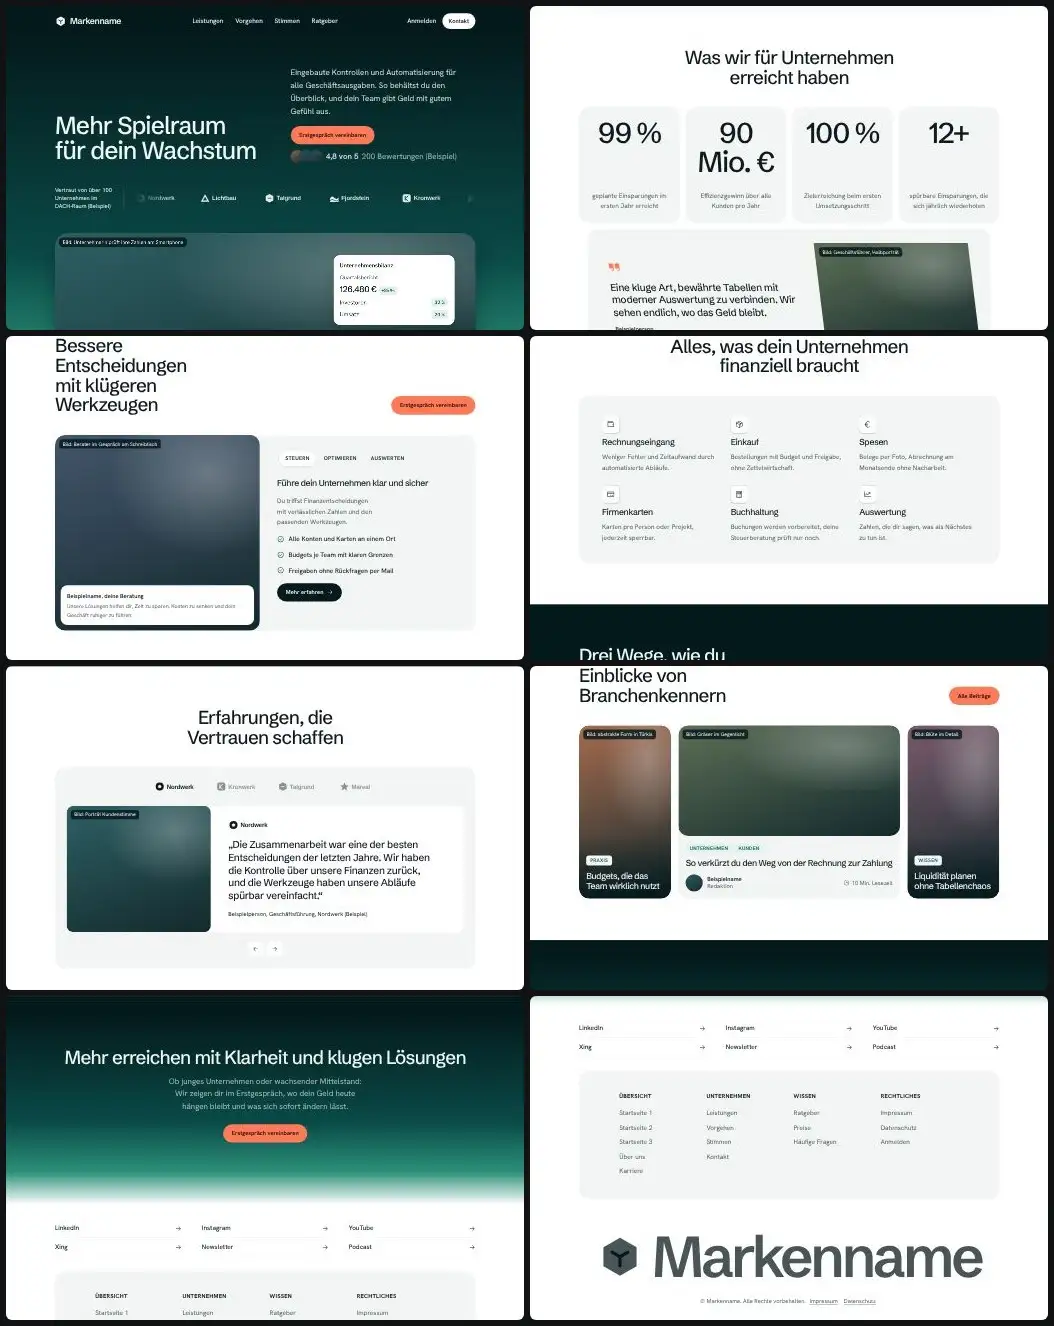
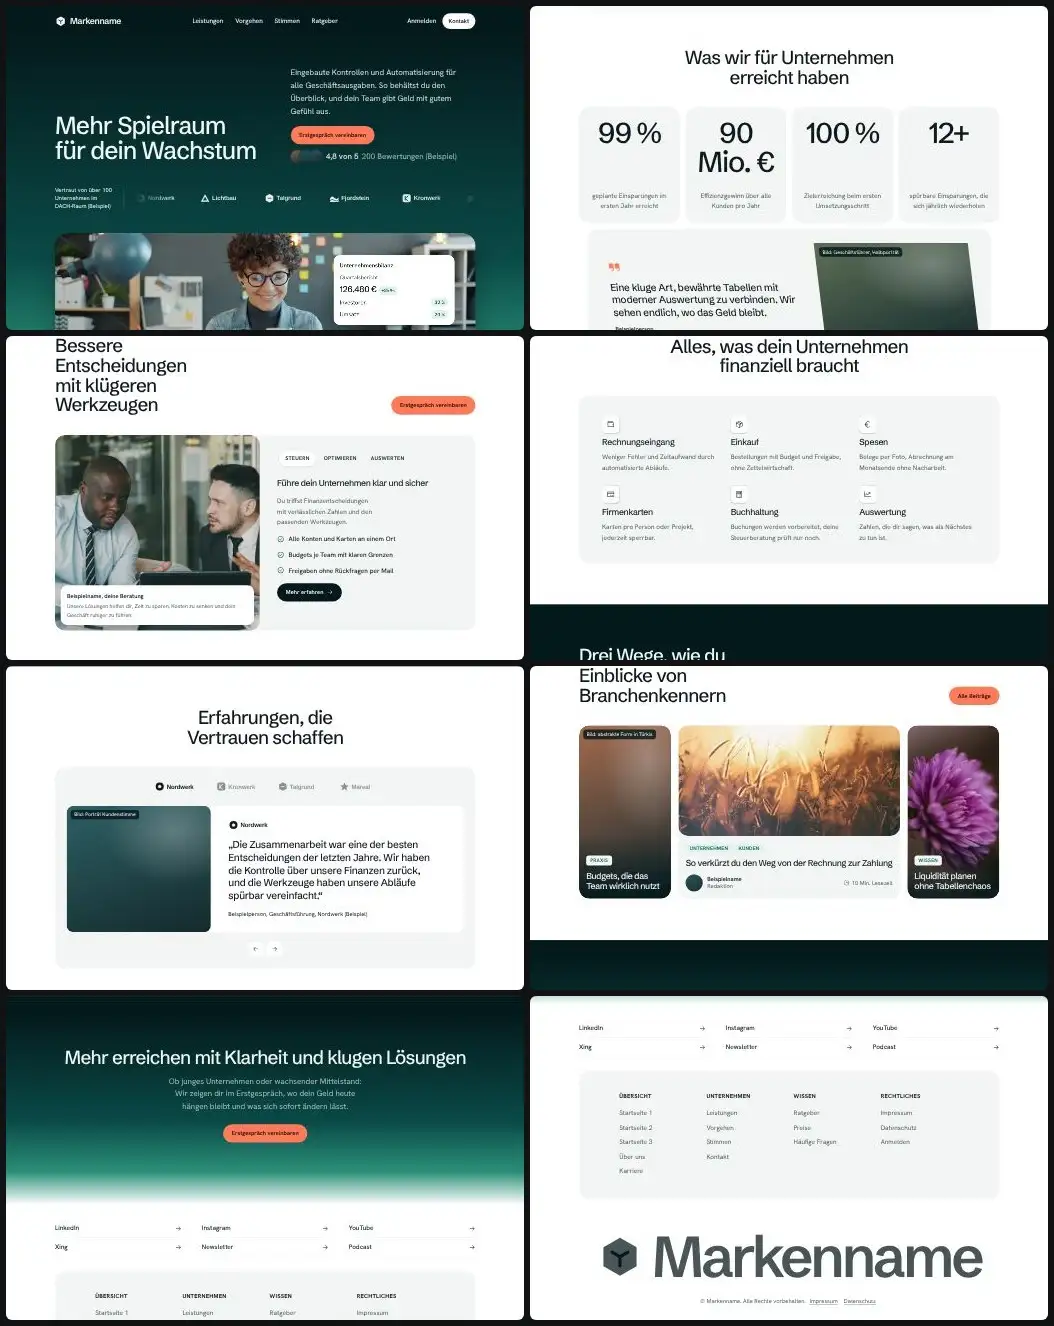
Bibliothek t54: Beispielfotos (Unsplash) eingebaut, Vorschaubilder neu erzeugt
Claude-Session: https://claude.ai/code/session_01DoGuL1bwF3ewggMgZ4Cpvd

Changed region(s): [[0.6376, 0.5256, 0.9715, 0.6802], [0.0304, 0.3092, 0.2732, 0.4947], [0.0304, 0.1546, 0.4554, 0.2474]]

diff --git a/skills/webdesign-conversion/assets/vorlagen/bibliothek/t54/index.html b/skills/webdesign-conversion/assets/vorlagen/bibliothek/t54/index.html
@@ -95,7 +95,7 @@
       </div>
       <div class="kipp" data-kipp>
         <div class="kipp__huelle">
-          <div class="bild bild--a kipp__bild" data-platzhalter="Bild: Unternehmerin prüft ihre Zahlen am Smartphone" role="img" aria-label="Platzhalter für ein Bild: Unternehmerin prüft ihre Zahlen am Smartphone"></div>
+          <div class="bild bild--a kipp__bild"><img src="bilder/buero-frau-smartphone.webp" width="1000" height="563" alt="Lächelnde Frau mit Smartphone an ihrem Schreibtisch im Büro" loading="lazy" decoding="async"></div>
           <div class="schwebe schwebe--1" data-parallax="0.06" data-beispiel>
             <div class="mini">
               <div class="mini__zeile"><span class="mini__titel">Unternehmensbilanz</span></div>
@@ -149,7 +149,7 @@
         <a class="knopf" href="#kontakt" data-zeig>Erstgespräch vereinbaren</a>
       </div>
       <div class="tabbox" data-schieber data-zeig>
-        <div class="bild bild--c tabbox__bild" data-platzhalter="Bild: Berater im Gespräch am Schreibtisch" role="img" aria-label="Platzhalter für ein Bild: Berater im Gespräch am Schreibtisch">
+        <div class="bild bild--c tabbox__bild"><img src="bilder/buero-gespraech-tablet.webp" width="1000" height="563" alt="Zwei Männer im Gespräch über Tablet und Laptop am Schreibtisch" loading="lazy" decoding="async">
           <div class="mini" data-beispiel><p class="mini__titel">Beispielname, deine Beratung</p><p class="mini__leise">Unsere Lösungen helfen dir, Zeit zu sparen, Kosten zu senken und dein Geschäft ruhiger zu führen.</p></div>
         </div>
         <div class="tabbox__inhalt">
@@ -204,7 +204,7 @@
         <a class="knopf" href="#kontakt" data-zeig>Erstgespräch vereinbaren</a>
       </div>
       <div class="wege">
-        <div class="bild bild--d wege__gross" data-platzhalter="Bild: Frau arbeitet am Laptop am Fenster" role="img" aria-label="Platzhalter für ein Bild: Frau arbeitet am Laptop am Fenster" data-zeig>
+        <div class="bild bild--d wege__gross" data-zeig><img src="bilder/buero-frau-laptop-fenster.webp" width="1000" height="667" alt="Frau arbeitet am Laptop an einem Tisch am Fenster" loading="lazy" decoding="async">
           <div class="mini" data-beispiel>
             <div class="person"><span class="avatar avatar--gross avatar--3" aria-hidden="true"></span><span><strong>Beispielname</strong><span class="leise">Neukundengewinnung</span></span></div>
             <div class="mini__zeile"><span>Abschlussquote</span><span>70 %</span></div><span class="fortschritt" style="--w:70%"><i></i></span>
@@ -223,7 +223,7 @@
           <article class="dkarte" data-zeig>
             <div class="dkarte__text"><h3>Sofortmeldungen</h3><p>Du bleibst auf dem Laufenden, ohne Postfächer zu durchsuchen.</p></div>
             <div class="dkarte__ui">
-              <div class="bild bild--e" style="aspect-ratio:16/10;border-radius:12px" data-platzhalter="Bild: zwei Personen im Gespräch" role="img" aria-label="Platzhalter für ein Bild"></div>
+              <div class="bild bild--e" style="aspect-ratio:16/10;border-radius:12px"><img src="bilder/buero-zwei-personen-gespraech.webp" width="1000" height="562" alt="Zwei Männer im Gespräch an einem hellen Tisch am Fenster" loading="lazy" decoding="async"></div>
               <div class="dzeile dzeile--an"><span><small>Beratung</small>Termin heute, 14:00 Uhr</span></div>
             </div>
           </article>
@@ -303,9 +303,9 @@
         <li class="beitrag1 beitrag1--schmal" data-zeig><article class="beitrag1"><div class="bild bild--b beitrag1__bild" data-platzhalter="Bild: abstrakte Form in Türkis" role="img" aria-label="Platzhalter für ein Bild"></div>
           <div class="beitrag1__text"><span class="beitrag__tags"><span class="etikett">Praxis</span></span><h3><a href="#ratgeber">Budgets, die das Team wirklich nutzt</a></h3></div></article></li>
         <li class="beitrag1 beitrag1--breit" data-zeig><article>
-          <div class="bild bild--d beitrag1__bild" data-platzhalter="Bild: Gräser im Gegenlicht" role="img" aria-label="Platzhalter für ein Bild"></div>
+          <div class="bild bild--d beitrag1__bild"><img src="bilder/graeser-gegenlicht.webp" width="800" height="533" alt="Gräser im warmen Gegenlicht" loading="lazy" decoding="async"></div>
           <div class="beitrag1__text"><span class="beitrag__tags"><span class="etikett">Unternehmen</span><span class="etikett">Kunden</span></span><h3><a href="#ratgeber">So verkürzt du den Weg von der Rechnung zur Zahlung</a></h3><div class="beitrag__fuss"><span class="person"><span class="avatar avatar--gross avatar--2" aria-hidden="true"></span><span><strong>Beispielname</strong><span class="leise">Redaktion</span></span></span><span class="dauer leise"><svg width="20" height="20" aria-hidden="true" focusable="false"><use href="#i-uhr"/></svg>10 Min. Lesezeit</span></div></div></article></li>
-        <li class="beitrag1 beitrag1--schmal" data-zeig><article class="beitrag1"><div class="bild bild--e beitrag1__bild" data-platzhalter="Bild: Blüte im Detail" role="img" aria-label="Platzhalter für ein Bild"></div>
+        <li class="beitrag1 beitrag1--schmal" data-zeig><article class="beitrag1"><div class="bild bild--e beitrag1__bild"><img src="bilder/bluete-lila-detail.webp" width="800" height="533" alt="Lila Blüte in der Nahaufnahme" loading="lazy" decoding="async"></div>
           <div class="beitrag1__text"><span class="beitrag__tags"><span class="etikett">Wissen</span></span><h3><a href="#ratgeber">Liquidität planen ohne Tabellenchaos</a></h3></div></article></li>
       </ul>
     </div>

diff --git a/skills/webdesign-conversion/assets/vorlagen/bibliothek/t54/v2.html b/skills/webdesign-conversion/assets/vorlagen/bibliothek/t54/v2.html
@@ -90,7 +90,7 @@
           <div class="bild bild--b bild--hoch" data-platzhalter="Bild: Frau mit Kopfhörer lacht am Laptop" role="img" aria-label="Platzhalter für ein Bild: Frau mit Kopfhörer lacht am Laptop"></div>
         </div>
         <div class="collage__spalte">
-          <div class="bild bild--a " data-platzhalter="Bild: Mann denkt nach am Arbeitsplatz" role="img" aria-label="Platzhalter für ein Bild: Mann denkt nach am Arbeitsplatz"></div>
+          <div class="bild bild--a "><img src="bilder/buero-mann-verschraenkte-arme.webp" width="1000" height="563" alt="Mann mit Brille lehnt mit verschränkten Armen an seinem Arbeitsplatz" loading="lazy" decoding="async"></div>
           <div class="mini" data-zeig><div class="mini__zeile mini__leise"><span>Alle</span><span>Geschäft</span><span>Unternehmen</span></div>
             <div class="dzeile dzeile--an"><span><small>Beispielname</small>Leitung Marketing</span></div>
             <div class="mini__zeile"><span><strong>Beispielname</strong><br><span class="mini__leise">Leitung Vertrieb</span></span></div></div>
@@ -119,7 +119,7 @@
           <ul class="haken"><li><svg width="20" height="20" aria-hidden="true" focusable="false"><use href="#i-hakenkreis"/></svg><span>Ein klares Erlösmodell aufbauen</span></li><li><svg width="20" height="20" aria-hidden="true" focusable="false"><use href="#i-hakenkreis"/></svg><span>Einnahmen auf mehrere Quellen verteilen</span></li><li><svg width="20" height="20" aria-hidden="true" focusable="false"><use href="#i-hakenkreis"/></svg><span>Automatische Zahlungserinnerungen nutzen</span></li><li><svg width="20" height="20" aria-hidden="true" focusable="false"><use href="#i-hakenkreis"/></svg><span>Ausgaben prüfen, Chancen erkennen</span></li></ul>
           <p><a class="knopf knopf--dunkel" href="#leistungen">Mehr erfahren <svg width="20" height="20" aria-hidden="true" focusable="false"><use href="#i-pfeil"/></svg></a></p>
         </div>
-        <div class="bild bild--d zukunft__bild" data-platzhalter="Bild: Frau arbeitet konzentriert am Laptop" role="img" aria-label="Platzhalter für ein Bild: Frau arbeitet konzentriert am Laptop" data-zeig>
+        <div class="bild bild--d zukunft__bild" data-zeig><img src="bilder/buero-frau-laptop-bett.webp" width="1000" height="667" alt="Frau arbeitet konzentriert am Laptop neben einem Fenster" loading="lazy" decoding="async">
           <div class="mini" data-beispiel><div class="mini__zeile"><span class="mini__titel">Einnahmen</span></div><p class="mini__wert">316.940,50 € <span class="mini__plus">+10 %</span></p><span style="color:var(--graf)"><svg class="linie-graf" viewBox="0 0 300 70" preserveAspectRatio="none" aria-hidden="true" focusable="false"><path d="M0 40 C20 10 35 55 55 35 S90 5 110 38 S150 60 170 30 S215 8 235 32 S275 45 300 12" fill="none" stroke="currentColor" stroke-width="2.5" stroke-linecap="round"/></svg></span></div>
         </div>
       </div>
@@ -139,7 +139,7 @@
           <li class="leistung" data-zeig><span class="symbol"><svg width="24" height="24" aria-hidden="true" focusable="false"><use href="#i-balken"/></svg></span><h3>Auswertungen nach Maß</h3><p>Berichte so zugeschnitten, wie dein Team sie liest.</p></li>
           <li class="leistung" data-zeig><span class="symbol"><svg width="24" height="24" aria-hidden="true" focusable="false"><use href="#i-gruppe"/></svg></span><h3>Bedienung ohne Schulung</h3><p>Neue Kolleginnen und Kollegen finden sich sofort zurecht.</p></li>
         </ul>
-        <div data-zeig class="bild bild--c plattform__mitte" data-platzhalter="Bild: Frau mit Laptop und Tasse im Regal-Büro" role="img" aria-label="Platzhalter für ein Bild: Frau mit Laptop und Tasse im Regal-Büro"></div>
+        <div class="bild bild--c plattform__mitte" data-zeig><img src="bilder/buero-frau-regal-buero.webp" width="1000" height="563" alt="Frau sitzt im Büro mit Regal und Laptop am Schreibtisch" loading="lazy" decoding="async"></div>
         <ul class="plattform__spalte" data-staffel>
           <li class="leistung" data-zeig><span class="symbol"><svg width="24" height="24" aria-hidden="true" focusable="false"><use href="#i-glocke"/></svg></span><h3>Zahlungserinnerungen</h3><p>Offene Posten melden sich, bevor sie überfällig werden.</p></li>
           <li class="leistung" data-zeig><span class="symbol"><svg width="24" height="24" aria-hidden="true" focusable="false"><use href="#i-mappe"/></svg></span><h3>Einheitlicher Auftritt</h3><p>Rechnungen und Angebote im Aussehen deiner Marke.</p></li>

diff --git a/skills/webdesign-conversion/assets/vorlagen/bibliothek/t54/v3.html b/skills/webdesign-conversion/assets/vorlagen/bibliothek/t54/v3.html
@@ -88,7 +88,7 @@
           <div class="mini"><div class="mini__zeile"><span class="mini__titel">Umsatz im Überblick</span><span class="mini__leise">Woche</span></div><p class="mini__wert">+40 %</p><span style="color:var(--graf)"><svg class="linie-graf" viewBox="0 0 300 70" preserveAspectRatio="none" aria-hidden="true" focusable="false"><path d="M0 40 C20 10 35 55 55 35 S90 5 110 38 S150 60 170 30 S215 8 235 32 S275 45 300 12" fill="none" stroke="currentColor" stroke-width="2.5" stroke-linecap="round"/></svg></span><div class="tage"><span>Mo</span><span>Di</span><span>Mi</span><span>Do</span><span>Fr</span><span>Sa</span></div></div>
           <div class="mini"><div class="mini__zeile"><span class="mini__titel">Teamtermine</span><span class="mini__leise">Woche</span></div><div class="pillen" aria-hidden="true"><i style="--h:100%"></i><i style="--h:45%"></i><i style="--h:100%"></i><i style="--h:40%"></i><i style="--h:100%"></i><i style="--h:42%"></i></div><div class="tage"><span>Mo</span><span>Di</span><span>Mi</span><span>Do</span><span>Fr</span><span>Sa</span></div><div class="mini__zeile mini__leise"><span class="person"><span class="avatar avatar--2" aria-hidden="true"></span>Beispielname</span><span>5. Mai</span></div></div>
         </div>
-        <div class="bild bild--d brett__bild" data-platzhalter="Bild: zwei Kollegen mit Mappe" role="img" aria-label="Platzhalter für ein Bild: zwei Kollegen mit Mappe"></div>
+        <div class="bild bild--d brett__bild"><img src="bilder/buero-zwei-frauen-stehtisch.webp" width="1000" height="667" alt="Zwei Frauen im Gespräch an einem Stehtisch im Büro" loading="lazy" decoding="async"></div>
       </div>
     </div>
   </section>

diff --git a/skills/webdesign-conversion/assets/vorlagen/bibliothek/t54/BILDER.md b/skills/webdesign-conversion/assets/vorlagen/bibliothek/t54/BILDER.md
@@ -1,0 +1,25 @@
+# Bilder t54
+
+Alle Fotos von Unsplash, abgerufen am 25.11.2026. Titel und Lizenz stehen so auf der Seite des Fotos (Titel von Unsplash automatisch vergeben), als Fotograf ist das Unsplash Profil angegeben, weil die Seite den Namen nur als Profillink zeigte. Lizenz ist jeweils die Unsplash Lizenz.
+
+| Datei | Platz | Foto Titel | Fotograf (Profil) | Seite | Lizenz | Abruf |
+|---|---|---|---|---|---|---|
+| buero-frau-smartphone.webp.webp | index Kipp Bild | Junge Frau lächelt, während sie ihr Smartphone benutzt | @silverkblack | https://unsplash.com/photos/FCKsQCXyWDg | Unsplash Lizenz | 25.11.2026 |
+| buero-gespraech-tablet.webp.webp | index Tabbox | Zwei Geschäftsleute, die über ein Tablet sprechen | @silverkblack | https://unsplash.com/photos/qlLIFT8cceo | Unsplash Lizenz | 25.11.2026 |
+| buero-frau-laptop-fenster.webp.webp | index Wege groß | Frau sitzt neben Tisch mit Laptop | @thoughtcatalog | https://unsplash.com/photos/UK78i6vK3sc | Unsplash Lizenz | 25.11.2026 |
+| buero-zwei-personen-gespraech.webp.webp | index Bild e | Mann in blau-weiß kariertem Hemd sitzt am Tisch | @thestandingdesk | https://unsplash.com/photos/rV_jbvr12i4 | Unsplash Lizenz | 25.11.2026 |
+| graeser-gegenlicht.webp.webp | index Beitrag 2 | brown and black grass photo | @ejleusink | https://unsplash.com/photos/uQN9KaPTeI4 | Unsplash Lizenz | 25.11.2026 |
+| bluete-lila-detail.webp.webp | index Beitrag 3 | Lila Blume in Makroaufnahme | @rayalbrow | https://unsplash.com/photos/Jdmhpk3gQEE | Unsplash Lizenz | 25.11.2026 |
+| buero-mann-verschraenkte-arme.webp.webp | v2 Hero 2 | Mann mit Brille und verschränkten Armen | @silverkblack | https://unsplash.com/photos/lNiKroJMyqQ | Unsplash Lizenz | 25.11.2026 |
+| buero-frau-laptop-bett.webp.webp | v2 Zukunft | Eine Frau auf einem Bett arbeitet an der Laptop | @docusign | https://unsplash.com/photos/TRUpNFYtyyA | Unsplash Lizenz | 25.11.2026 |
+| buero-frau-regal-buero.webp.webp | v2 Plattform Mitte | Eine Frau in einem beigefarbenen Pullover | @silverkblack | https://unsplash.com/photos/_W1iNE5B0gg | Unsplash Lizenz | 25.11.2026 |
+| buero-zwei-frauen-stehtisch.webp.webp | v3 Brett 2 | Zwei Frauen, die an einem Stehschreibtisch | @linkedinsalesnavigator | https://unsplash.com/photos/qbDiSp5IqxA | Unsplash Lizenz | 25.11.2026 |
+
+## Hinweise
+
+* Titel der Fotos passen teils nicht zum Bild, der Alt Text beschreibt das Sichtbare.
+* Personen nur als Stimmung, keine echten Kundschaft oder Mitarbeitenden.
+
+## Offen
+
+* Porträts (Geschäftsführer, Kundenstimmen, Anwendungsfeld), abstrakte Formen, Frau mit Kopfhörer (v2), Frau mit Tablet vor Tafel (v3) und Frau liest Zahlen (v3) bleiben Platzhalter.
